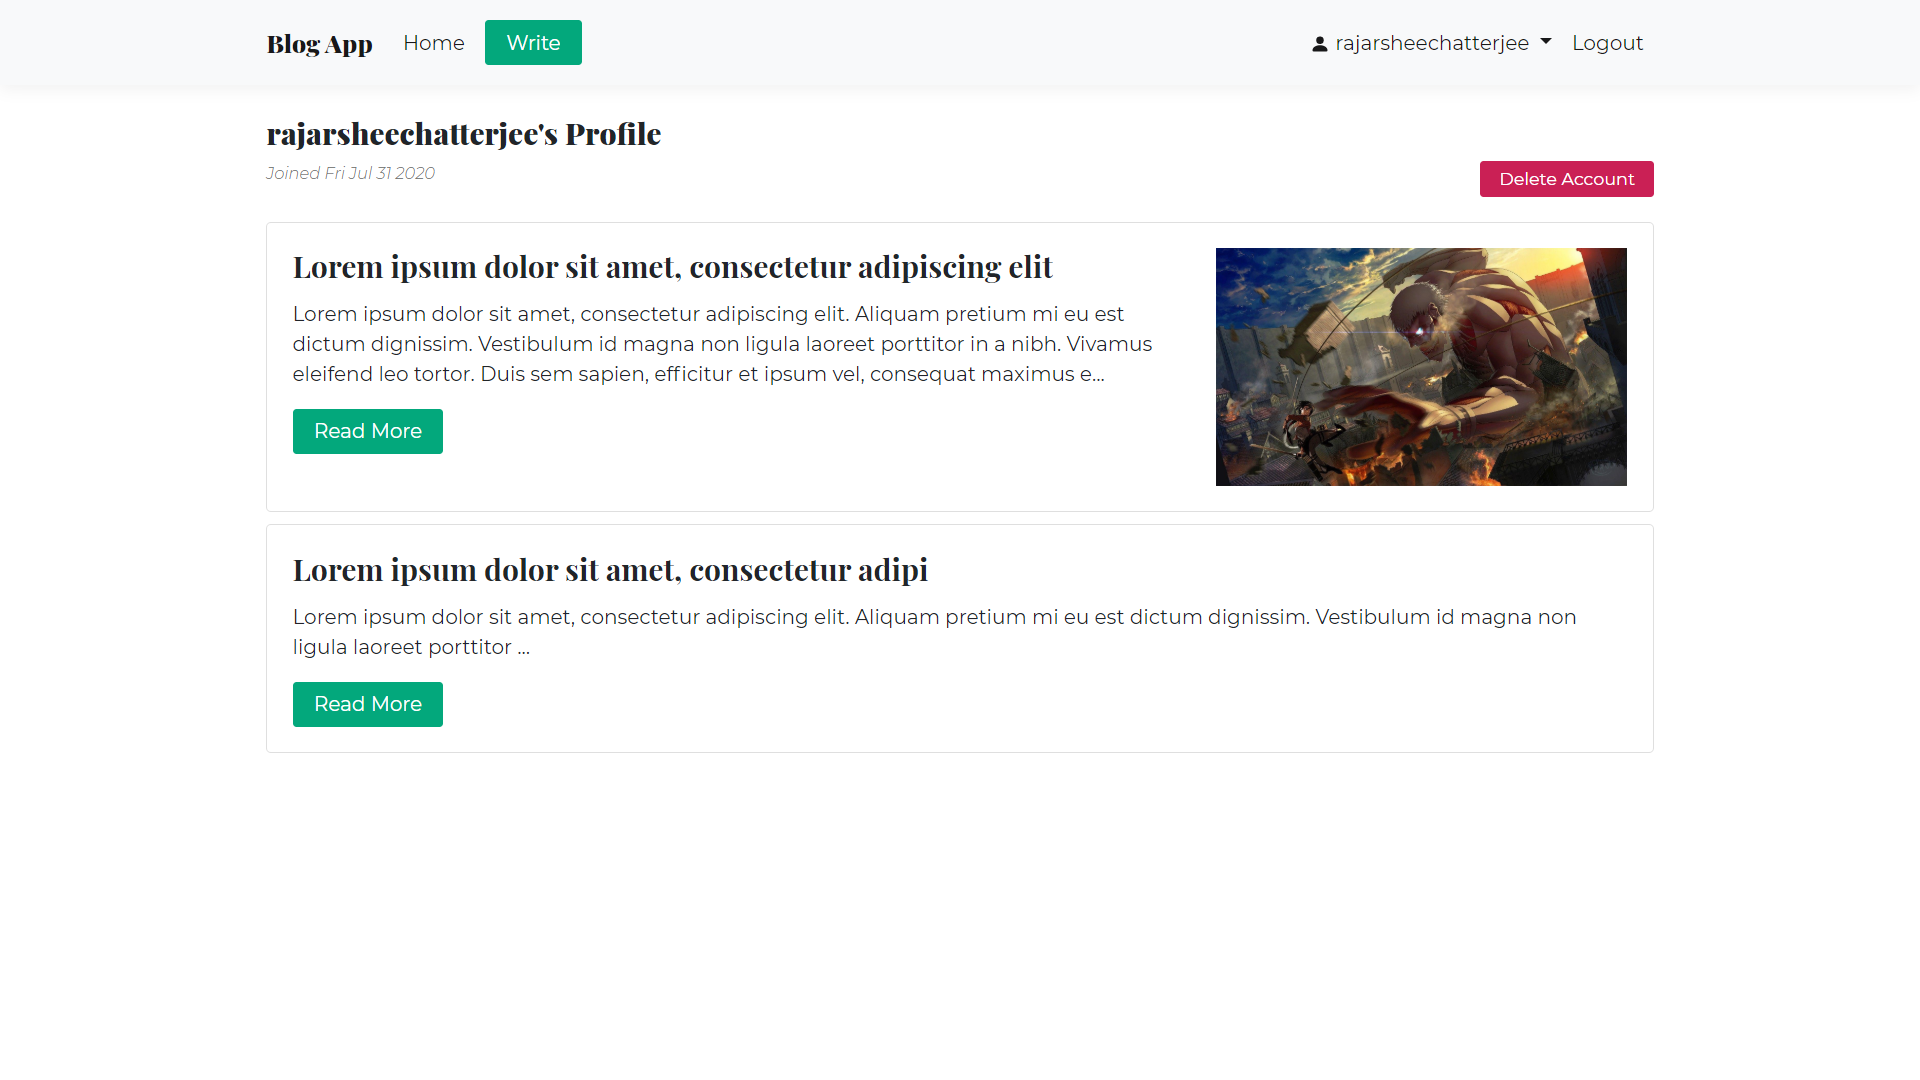
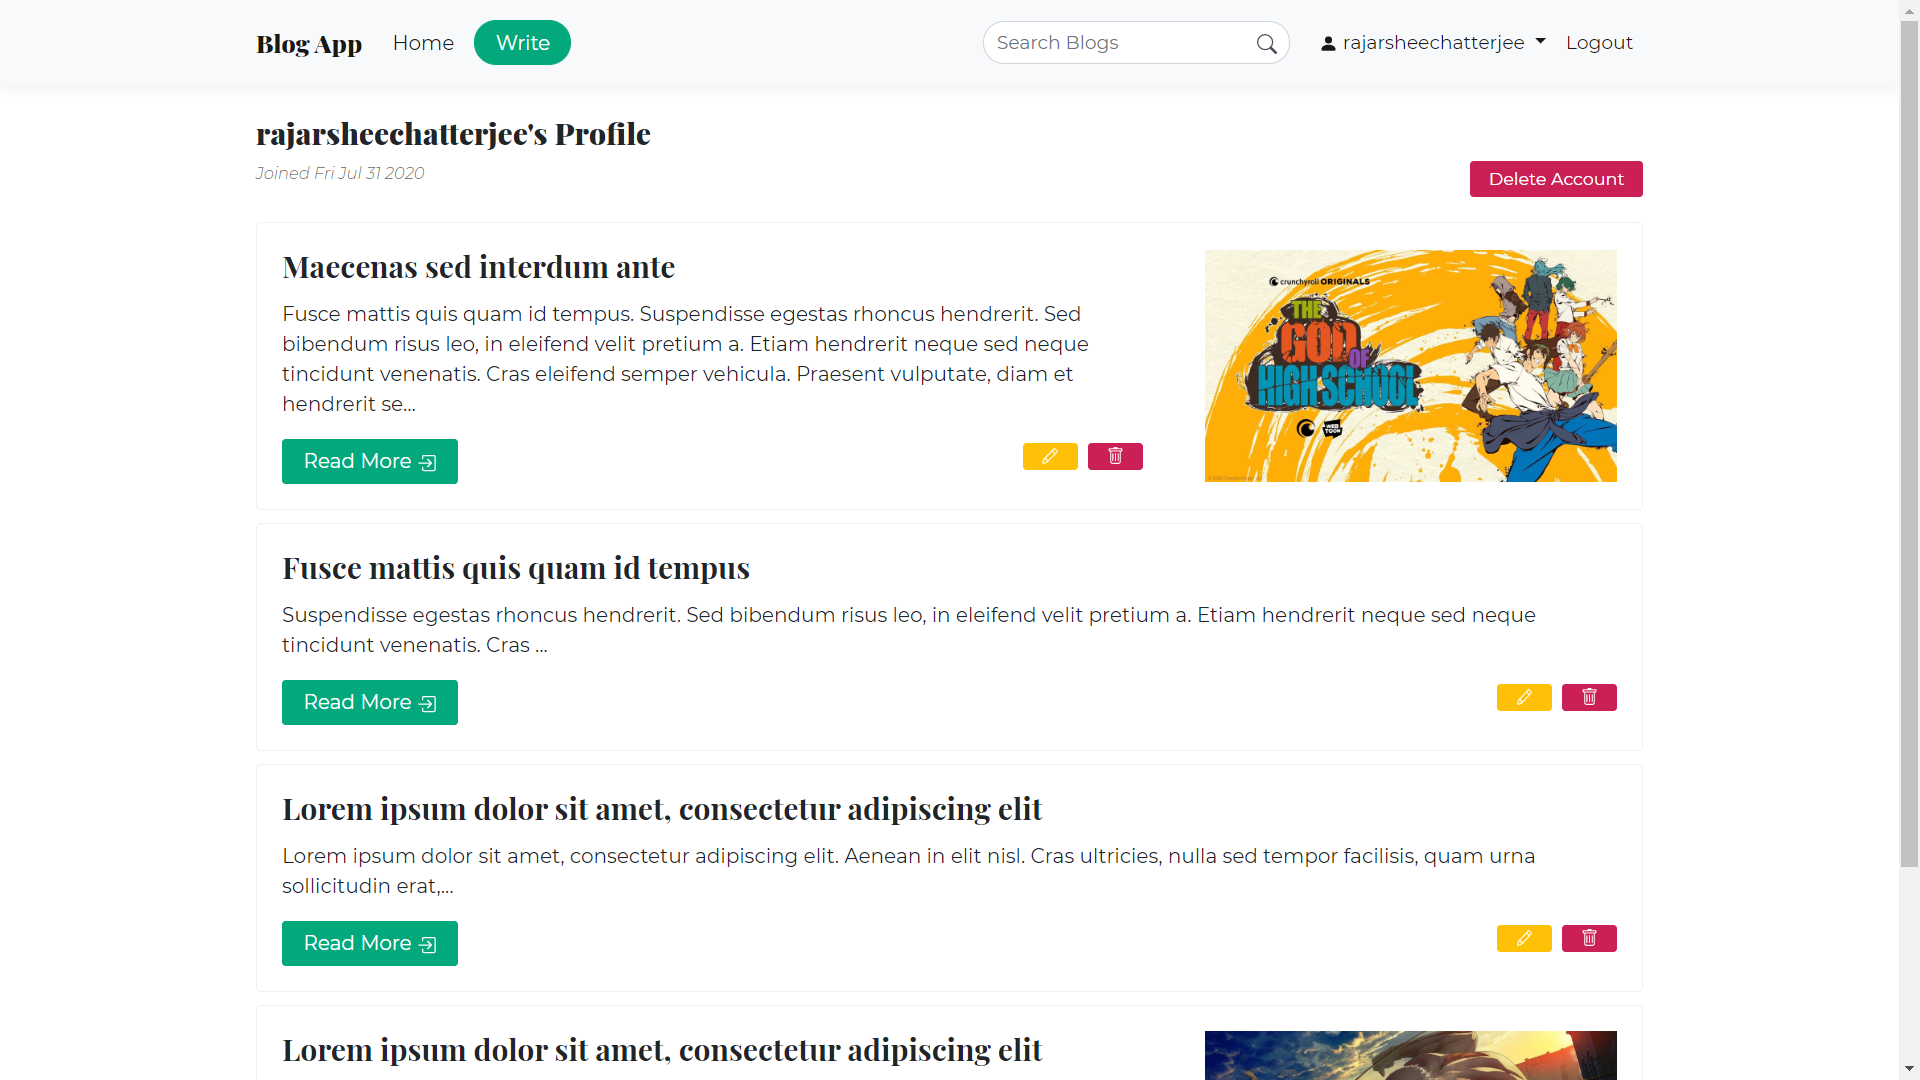
Update images and minor fixes

diff --git a/public/stylesheets/app.css b/public/stylesheets/app.css
@@ -311,7 +311,7 @@ img {
 .loginbtn {
   background-color: rgba(3, 168, 124, 1);
   border-color: rgba(3, 168, 124, 1);
-  border-radius: 3px;
+  border-radius: 9999px;
   border-width: 1px;
   border-style: solid;
   color: white;
@@ -360,6 +360,10 @@ img {
   transition-duration: 0.2s;
 }
 
+.sm {
+  font-size: 15px;
+}
+
 /* .replyeditbtn.height {
     height: 36px;
     font-size: 16px;
@@ -369,3 +373,62 @@ img {
     height: 36px;
     font-size: 16px;
 } */
+
+.form-control.rd {
+  padding: 10px !important;
+  display: block;
+  width: 100%;
+  height: 35px !important;
+  padding: .375rem .75rem;
+  font-size: 15px !important;
+  font-weight: 400;
+  line-height: 1.5;
+  color: #495057;
+  background-color: #fff;
+  background-clip: padding-box;
+  border: 1px solid #ced4da;
+  border-right: none !important;
+  border-top-left-radius: 9999px !important;
+  border-bottom-left-radius: 9999px  !important;
+  transition: border-color .15s ease-in-out,box-shadow .15s ease-in-out;
+}
+
+.searchbtn {
+  border-left: none !important;
+  border: 1px solid #ced4da;
+  height: 35px !important;
+  background-color: white !important;
+  border-top-right-radius: 9999px !important;
+  border-bottom-right-radius: 9999px  !important;
+  color: #495057;
+  padding: 10px;
+}
+
+.searchbtn:focus {
+  outline: none;
+}
+
+.searchbtn:hover {
+  color: black;
+}
+
+.form-control.rd:focus {
+  box-shadow: none !important;
+  border-top: 1px solid #ced4da !important;
+  border-bottom: 1px solid #ced4da !important;
+  border-left: 1px solid #ced4da !important;
+}
+
+.form-control.rnded {
+  border-radius: 9999px;
+  padding: 15px;
+}
+
+.searchbar {
+  border-radius: 9999px;
+  margin-right: 15px !important;
+}
+
+.newpost.rnded {
+  border-radius: 9999px;
+}
